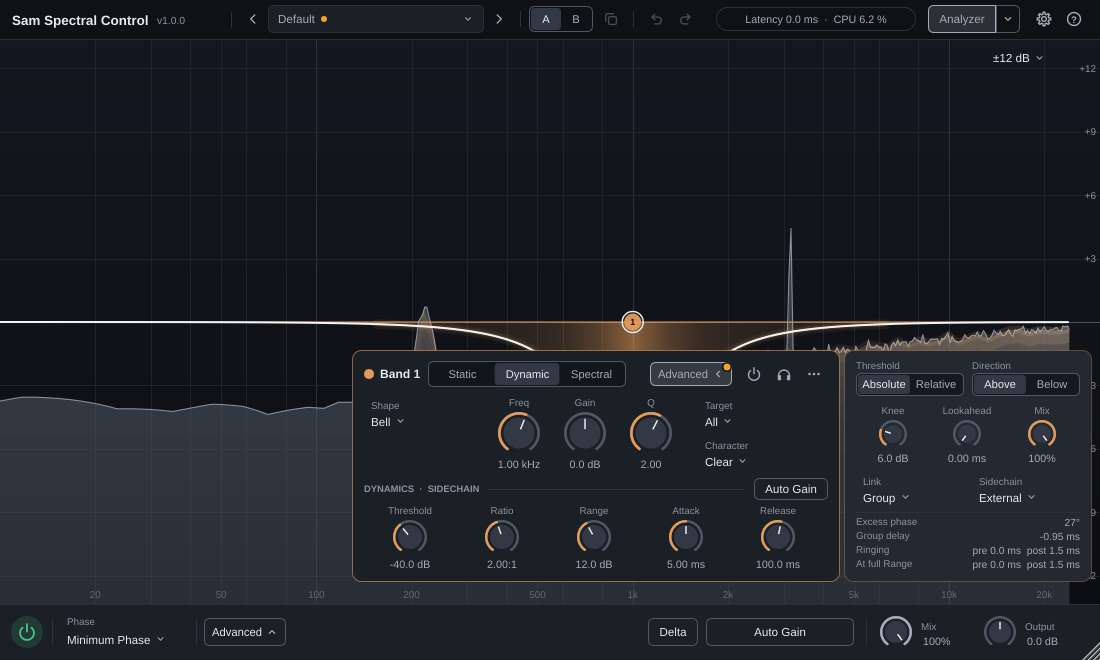
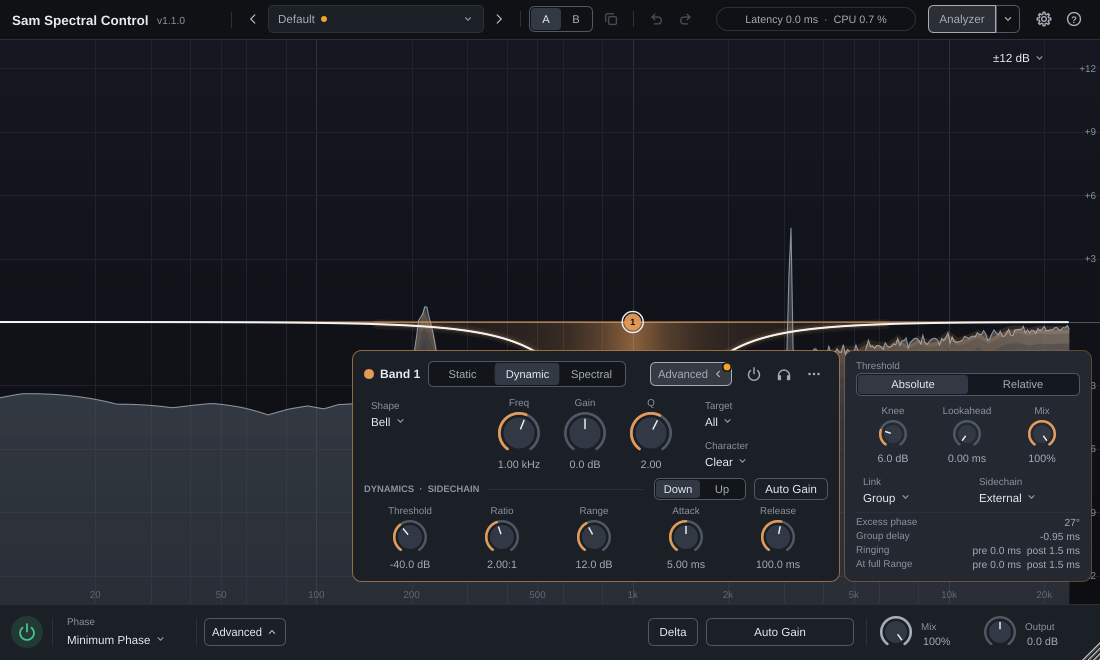
Release 1.1.0
Version 1.1.0: Solo as the band sounds in the mix, on its target only,
with the audible range on the display; a sidechain input for Dynamic and
Spectral bands; upward compression (Direction Down | Up, attack and
release that follow the level). Projects and presets of 1.0.0 load with
the same sound.

CHANGELOG section 1.1.0 (the release notes), README download and
status, manual title and installer names, release and architecture
notes, traceability status; screenshots of the manual rendered from
1.1.0 (the dynamics row now shows Down | Up).

Claude-Session: https://claude.ai/code/session_01L9DFKvKpGWKxu7qzDCDN1t

diff --git a/src/plugin/StateMigration.h b/src/plugin/StateMigration.h
@@ -6,7 +6,7 @@ namespace ssc::plugin
 {
 /**
     Current version of the saved state. Bump when the layout changes and add a migration step.
-    1: version 1.0. 2: the bands' Direction is Down / Up (it was the threshold side, Above / Below),
+    1: version 1.0. 2 (version 1.1): the bands' Direction is Down / Up (it was the threshold side, Above / Below),
     and attack and release answer a rising and a falling level.
 */
 inline constexpr int kStateVersion = 2;

diff --git a/docs/traceability.md b/docs/traceability.md
@@ -2,7 +2,7 @@
 
 Każde wymaganie z [PROMPT.md](../PROMPT.md) z priorytetem, etapem realizacji, źródłem kryteriów akceptacji i statusem. Tabela jest aktualizowana po każdym kamieniu milowym; kolumna „Dowód” zostanie uzupełniona nazwami testów i raportów pomiarowych.
 
-Stan: **wersja 1.0.0 wydana jako wstępna (2026-10-10)** — licencja AGPLv3 (ADR-0002), identyfikatory zamrożone (ADR-0016), instalatory bez podpisów (brak kont Apple Developer i Azure); ręczne testy w hostach (TST-3) jeszcze przed wydaniem zwykłym. Po 1.0.0 (niewydane, CHANGELOG [Unreleased]): Solo z działaniem pasma i na jego celu, słyszalny zakres Solo, wejście Sidechain pasm Dynamic i Spectral (DYN-4), kompresja w górę (Direction Down \| Up, DYN-5, DYN-6; stan w wersji 2). Etapy: M0 research, M1 szkielet, M2 pasma statyczne, M3 dynamika, Spectral i Auto Gain, M4 Natural Phase, Quality, oversampling, Character, M5 surround i panel głośników, M6 Analog Feel N/P/S, M7 wizualizacje, podpowiedzi rezonansów, odczyty, mierniki, M8 presety i A/B, testy obciążeniowe, render offline, instalatory, Delta, nakładka fazy, korektor Minimum Phase, raporty pomiarów, instrukcja i licencje — 88 wymagań, wszystkie z kryteriami akceptacji w notatkach researchu lub ADR. Kolumna „Dowód” wskazuje testy (tagi Catch2 w nawiasach), raporty `docs/measurements` lub elementy kodu.
+Stan: **wersja 1.1.0 wydana jako wstępna (2026-10-27; 1.0.0 — 2026-10-10)** — licencja AGPLv3 (ADR-0002), identyfikatory zamrożone (ADR-0016), instalatory bez podpisów (brak kont Apple Developer i Azure); ręczne testy w hostach (TST-3) jeszcze przed wydaniem zwykłym. W 1.1.0: Solo z działaniem pasma i na jego celu, słyszalny zakres Solo, wejście Sidechain pasm Dynamic i Spectral (DYN-4), kompresja w górę (Direction Down \| Up, DYN-5, DYN-6; stan w wersji 2). Etapy: M0 research, M1 szkielet, M2 pasma statyczne, M3 dynamika, Spectral i Auto Gain, M4 Natural Phase, Quality, oversampling, Character, M5 surround i panel głośników, M6 Analog Feel N/P/S, M7 wizualizacje, podpowiedzi rezonansów, odczyty, mierniki, M8 presety i A/B, testy obciążeniowe, render offline, instalatory, Delta, nakładka fazy, korektor Minimum Phase, raporty pomiarów, instrukcja i licencje — 88 wymagań, wszystkie z kryteriami akceptacji w notatkach researchu lub ADR. Kolumna „Dowód” wskazuje testy (tagi Catch2 w nawiasach), raporty `docs/measurements` lub elementy kodu.
 
 | ID | Wymaganie (skrót) | Priorytet | Etap | Kryteria / projekt | Dowód | Status |
 |---|---|---|---|---|---|---|
@@ -24,7 +24,7 @@ Stan: **wersja 1.0.0 wydana jako wstępna (2026-10-10)** — licencja AGPLv3 (AD
 | CH-4 | Cel pasma w surround — panel wyboru głośników (nazewnictwo Dolby: L, R, C, LFE, Lss, Rss… | P0 | M5 | research/04 §d | `[CH-4]` mapowanie ról, „All + Side” ze stereo w 7.1.4, stan, Undo, panel (szybkie wybory, podsumowanie) | Zrealizowane (M5) |
 | CH-5 | Linkowanie detekcji w pasmach Dynamic/Spectral: niezależnie / w obrębie pary / w obrębie… | P0 | M5 | research/04 §d | `[CH-5]` Linked lanes share one gain (Dynamic); linkowanie w Spectral | Zrealizowane (M3) |
 | CH-6 | Kanały, których pasmo nie obejmuje, zostają nietknięte (weryfikacja null testem) | P0 | M5 | research/04 §d | `[CH-6]` stereo i 7.1.4 z oversamplingiem, Natural Phase i Auto Gain (bit-exact); Analog Feel Max (4×, korektor, Sharp) — kanał bez pasma bit-exact | Zrealizowane (M5; z Analog Feel — M6) |
-| BAND-1 | Do 24 pasm | P0 | M2 | research/05 §d | `[BAND-1]` Band slots…; Band parameters drive the engine…; `[solo]` Solo plays the band region as heard (boost louder, cut quieter), only that part for Mid/Side/Left/Right, follows Dynamic and Spectral, without Auto Gain, one speaker in 5.1; wyświetlacz pokazuje słyszalny zakres Solo (`EqDisplay::paintSoloRange`) | Zrealizowane (M2); CPU 24 pasm — docs/measurements/cpu.md; Solo z działaniem pasma i na jego celu — po 1.0.0 |
+| BAND-1 | Do 24 pasm | P0 | M2 | research/05 §d | `[BAND-1]` Band slots…; Band parameters drive the engine…; `[solo]` Solo plays the band region as heard (boost louder, cut quieter), only that part for Mid/Side/Left/Right, follows Dynamic and Spectral, without Auto Gain, one speaker in 5.1; wyświetlacz pokazuje słyszalny zakres Solo (`EqDisplay::paintSoloRange`) | Zrealizowane (M2); CPU 24 pasm — docs/measurements/cpu.md; Solo z działaniem pasma i na jego celu — 1.1.0 |
 | BAND-2 | Kształty: Bell, Low Shelf, High Shelf, Low Cut, High Cut, Notch, Band Pass, Tilt Shelf | P0 (Flat Tilt, All Pass P1) | M2 | research/05 §d | `[BAND-2]` Matched bell / shelves / notch, band pass, all pass, tilt; `[PH-1]`; docs/measurements/filters.md | Zrealizowane: ±0,1 dB do 20 kHz przy 44,1 kHz w Natural Phase i Minimum Phase High/Max (≤ 0,005 dB); Minimum Phase Eco/Normal — obwiednia błędu dopasowanego IIR (research/05 §c) |
 | BAND-3 | Slope dla Low/High Cut: 6, 12, 18, 24, 30, 36, 48, 72 i 96 dB/oct (płynna regulacja — P1)… | P0 (płynny slope P1) | M2 | research/05 §d | `[BAND-3]` Cut filters: -3 dB at the corner and the nominal slope; `[BAND-3]` Natural Phase brickwall | Zrealizowane (slopy stałe; Brickwall w Natural Phase liniowofazowy od 7·fs/(2D+1), niżej IIR 96 dB/oct — M4); płynny slope P1 |
 | BAND-4 | Tworzenie pasma kliknięciem — kształt zależy od miejsca kliknięcia (jak w Pro-Q 4) | P0 | M2 | research/05 §d | `[BAND-4]` Band shape follows the click zone; hover preview w EqDisplay | Zrealizowane (M2) |
@@ -34,9 +34,9 @@ Stan: **wersja 1.0.0 wydana jako wstępna (2026-10-10)** — licencja AGPLv3 (AD
 | DYN-1 | Static — klasyczny filtr | P0 | M2 | research/06 §d | `ssc::engine::BandProcessor` (tryb Static) | Zrealizowane (M2) |
 | DYN-2 | Dynamic — wzmocnienie całego pasma zależy od poziomu wykrytego w paśmie (klasyczny dynamic EQ) | P0 | M3 | research/06 §d | `[DYN-4]` `[DYN-5]` testy pasma Dynamic; `BandProcessor` tryb Dynamic | Zrealizowane (M3) |
 | DYN-3 | Spectral — w zakresie pasma (ważonym jego kształtem) przetwarzane są tylko częstotliwości… | P0 | M3 | research/06 §d | `[DYN-3]` Spectral band reduces only the tone over the threshold; `SpectralEngine` | Zrealizowane (M3) |
-| DYN-4 | Parametry pasm Dynamic/Spectral: Threshold, Ratio, Direction, Range, Attack, Release, Lookahead, Knee, Q, Mix, Selectivity | P0 (Detector, Sidechain, program-dependent P1) | M3 | research/06 §d | `[DYN-4]` Gain computer…; Ratio 1:1…Range; Mode changes move default thresholds; `[sidechain]` detekcja z sidechaina (Dynamic, Spectral, oversampling, mapowanie na cel, sidechain mono), magistrala Sidechain (układy, processBlock, 32 kanały bez alokacji, stary stan → Internal), UI (podpowiedź braku wejścia, schowek) | Zrealizowane (M3); Sidechain (P1) — po 1.0.0: wejście mono/stereo, Internal \| External per pasmo; Detector Peak, program-dependent — P1 |
-| DYN-5 | Znaczenie kombinacji Ratio × Direction (w obszarze aktywnym nachylenie charakterystyki… | P0 | M3 | research/06 §c, §d | `[DYN-5]` Gain computer follows the static characteristic; Dynamic bell steady state; Down cuts and Up boosts (`thresholdSideFor`); upward compression lifts a quiet band (rdzeń, Spectral, `processBlock`); migracja stanu, presetu i schowka z 1.0 | Zrealizowane (M3); po 1.0.0 Direction = Down \| Up w panelu pasma, kompresja w górę jednym kliknięciem |
-| DYN-6 | Implementuj zgodnie z dobrą praktyką (Giannoulis, Massberg, Reiss 2012): układ… | P0 (program-dependent P1) | M3 | research/06 §c, §d | `[DYN-6]` Attack and release are time constants; Attack answers a rising level in every direction; upward compression takes the lift back at once on a loud onset; expansion below opens with the attack | Zrealizowane (M3); po 1.0.0 attack = reakcja na rosnący poziom także poniżej progu; program-dependent — P1 |
+| DYN-4 | Parametry pasm Dynamic/Spectral: Threshold, Ratio, Direction, Range, Attack, Release, Lookahead, Knee, Q, Mix, Selectivity | P0 (Detector, Sidechain, program-dependent P1) | M3 | research/06 §d | `[DYN-4]` Gain computer…; Ratio 1:1…Range; Mode changes move default thresholds; `[sidechain]` detekcja z sidechaina (Dynamic, Spectral, oversampling, mapowanie na cel, sidechain mono), magistrala Sidechain (układy, processBlock, 32 kanały bez alokacji, stary stan → Internal), UI (podpowiedź braku wejścia, schowek) | Zrealizowane (M3); Sidechain (P1) — 1.1.0: wejście mono/stereo, Internal \| External per pasmo; Detector Peak, program-dependent — P1 |
+| DYN-5 | Znaczenie kombinacji Ratio × Direction (w obszarze aktywnym nachylenie charakterystyki… | P0 | M3 | research/06 §c, §d | `[DYN-5]` Gain computer follows the static characteristic; Dynamic bell steady state; Down cuts and Up boosts (`thresholdSideFor`); upward compression lifts a quiet band (rdzeń, Spectral, `processBlock`); migracja stanu, presetu i schowka z 1.0 | Zrealizowane (M3); w 1.1.0 Direction = Down \| Up w panelu pasma, kompresja w górę jednym kliknięciem |
+| DYN-6 | Implementuj zgodnie z dobrą praktyką (Giannoulis, Massberg, Reiss 2012): układ… | P0 (program-dependent P1) | M3 | research/06 §c, §d | `[DYN-6]` Attack and release are time constants; Attack answers a rising level in every direction; upward compression takes the lift back at once on a loud onset; expansion below opens with the attack | Zrealizowane (M3); w 1.1.0 attack = reakcja na rosnący poziom także poniżej progu; program-dependent — P1 |
 | DYN-7 | Mix pasma działa w domenie wzmocnienia (skaluje zmianę w dB), a nie jako równoległe… | P0 | M3 | research/06 §d | `[DYN-7]` Dynamic band mix scales the gain change | Zrealizowane (M3) |
 | DYN-8 | Lookahead: tor główny jest opóźniony o globalny Max Lookahead (0–20 ms, domyślnie 0 ms)… | P0 | M3 | research/06 §d | `[DYN-8]` Lookahead delays the main path…; Max Lookahead sets the reported latency; band lookahead raises Max Lookahead | Zrealizowane w Dynamic (M3); w Spectral nieużywany — ramka STFT wyprzedza transjent o ~N/2; pokrętło wyłączone i nie podnosi Max Lookahead (M8) |
 | DYN-9 | Silnik spektralny: STFT z WOLA albo odwracalna transformata o stałym Q (oceń w researchu) | P0 (Low Latency P1) | M3 | research/06 §d, ADR-0006 | `[DYN-9]` unity mask −139 dB; research/06 §c | Zrealizowane (M3); Max = gęstszy hop (N/8), bez jawnego okienkowania IR maski (research/06 §c); Low Latency (P1) — poza 1.0 |
@@ -90,7 +90,7 @@ Stan: **wersja 1.0.0 wydana jako wstępna (2026-10-10)** — licencja AGPLv3 (AD
 | TST-2 | CI: pluginval (strictness 10) na obu systemach, Steinberg VST3 validator, auval (dla AU) | P0 | M1 | ADR-0015 | CI i workflow wydania: pluginval strictness 10 (Linux, macOS, Windows), walidator VST3 Steinberga 3.8.1 w trybie rozszerzonym (`tools/ci/vst3-validator.sh`, lokalnie 537/537), auval przy budowie AU | Zrealizowane (M8); auval tylko gdy AU włączony (P1) |
 | TST-3 | Macierz hostów (ręczna checklista w docs/testing.md): Cubase/Nuendo (w tym Atmos 7.1.4 i… | P0 | M8 | docs/testing.md | — | Zaprojektowane; wykonanie ręczne w hostach przed wydaniem (wymaga licencji hostów i systemów macOS/Windows) |
 | TST-4 | Testy obciążeniowe: wszystkie układy kanałów, fs 44,1–384 kHz, bufory 1–8192 próbek i… | P0 | M8 | ADR-0015, docs/testing.md | `[TST-4]` (tests/plugin/TestStress.cpp): 20 układów, 8 częstotliwości, bufory 1–8192 i zmienne (bit-exact), automatyzacja wszystkich parametrów, zmiana układu/fs w sesji, błędy hosta; RTSan | Zrealizowane (M8) |
-| REL-1 | macOS: universal binary, podpis Developer ID, .pkg, notaryzacja, deinstalator | P0 | M8 | ADR-0014, docs/release.md | `packaging/macos/build-pkg.sh` (komponenty VST3/AU/deinstalator, nierelokowalne bundle, codesign z hardened runtime, notarytool + stapler), `uninstall.command`; bez tożsamości podpis ad hoc bundle; sprawdzony w trybie DRY_RUN (`distribution.xml` poprawny) | Zrealizowane (M8); 1.0.0 bez podpisu Developer ID i notaryzacji (brak konta Apple Developer) |
-| REL-2 | Windows: bundle VST3, Inno Setup z deinstalatorem, podpis Authenticode | P0 | M8 | ADR-0014, docs/release.md | `packaging/windows/SamSpectralControl.iss` (VST3 w Common Files, deinstalator, stały AppId), podpis Azure Artifact Signing w `release.yml`; SmartScreen opisany w docs/release.md | Zrealizowane (M8); 1.0.0 bez podpisu Authenticode (brak konta Azure Artifact Signing) |
-| REL-3 | GitHub Actions (macOS + Windows): build, testy, pluginval, pakowanie, podpis i notaryzacja… | P0 | M1 (CI), M8 (podpisy) | ADR-0014, docs/release.md | `.github/workflows/ci.yml`, `.github/workflows/release.yml` (podpisy z GitHub Secrets, bez nich niepodpisane artefakty i wydanie wstępne; wydanie z CHANGELOG, archiwum źródeł z submodułami i SHA-256; bramka ADR-0002/ADR-0016), SemVer + `CHANGELOG.md` | Zrealizowane: wydanie 1.0.0 (wstępne) |
+| REL-1 | macOS: universal binary, podpis Developer ID, .pkg, notaryzacja, deinstalator | P0 | M8 | ADR-0014, docs/release.md | `packaging/macos/build-pkg.sh` (komponenty VST3/AU/deinstalator, nierelokowalne bundle, codesign z hardened runtime, notarytool + stapler), `uninstall.command`; bez tożsamości podpis ad hoc bundle; sprawdzony w trybie DRY_RUN (`distribution.xml` poprawny) | Zrealizowane (M8); 1.0.0 i 1.1.0 bez podpisu Developer ID i notaryzacji (brak konta Apple Developer) |
+| REL-2 | Windows: bundle VST3, Inno Setup z deinstalatorem, podpis Authenticode | P0 | M8 | ADR-0014, docs/release.md | `packaging/windows/SamSpectralControl.iss` (VST3 w Common Files, deinstalator, stały AppId), podpis Azure Artifact Signing w `release.yml`; SmartScreen opisany w docs/release.md | Zrealizowane (M8); 1.0.0 i 1.1.0 bez podpisu Authenticode (brak konta Azure Artifact Signing) |
+| REL-3 | GitHub Actions (macOS + Windows): build, testy, pluginval, pakowanie, podpis i notaryzacja… | P0 | M1 (CI), M8 (podpisy) | ADR-0014, docs/release.md | `.github/workflows/ci.yml`, `.github/workflows/release.yml` (podpisy z GitHub Secrets, bez nich niepodpisane artefakty i wydanie wstępne; wydanie z CHANGELOG, archiwum źródeł z submodułami i SHA-256; bramka ADR-0002/ADR-0016), SemVer + `CHANGELOG.md` | Zrealizowane: wydania 1.0.0 i 1.1.0 (wstępne) |
 | REL-4 | Dokumentacja: README (instrukcja budowania), manual użytkownika (PL; EN — P1), licencje… | P0 (manual EN P1) | M1 (README), M8 | ADR-0014 | README.md (pobieranie, budowanie, struktura, licencja); `LICENSE` (AGPLv3); docs/manual.md (PL); THIRD-PARTY-NOTICES.txt (`tools/third-party-notices.py`, `--check` w CI); CHANGELOG.md; docs/release.md | Zrealizowane (M8); manual EN — P1 |

diff --git a/docs/research/06-tryby-pasma-dynamic-spectral.md b/docs/research/06-tryby-pasma-dynamic-spectral.md
@@ -52,11 +52,11 @@ Niech c = 1/R − 1 (dla R = ∞: c = −1).
 
 Wynik: g ograniczone do [−Range, +Range]. Znak g wynika automatycznie z tabeli w DYN-5 (np. Above + R > 1 → g ≤ 0; Below + R > 1 → g ≥ 0). R = 1 → c = 0 → brak działania.
 
-**Po 1.0.0: parametr Direction to Down / Up.** Above / Below to wewnętrzna strona progu; użytkownik wybiera, czy pasmo tnie (Down), czy podbija (Up), a strona wynika z ratio: Down + R > 1 → Above (kompresja), Up + R > 1 → Below (**kompresja w górę**), Down + R < 1 → Below (ekspansja w dół, bramka), Up + R < 1 → Above (ekspansja w górę) — `dynamics::thresholdSideFor`. Tak opisują to wtyczki wielopasmowe (FabFilter Pro-MB: Compress / Expand i Range w górę lub w dół; TDR Nova), a automatyzacja ratio nie zmienia znaczenia przełącznika. Przełącznik **Down | Up** jest w panelu pasma (nie w Advanced), bo to podstawowy wybór działania pasma.
+**W 1.1.0 parametr Direction to Down / Up.** Above / Below to wewnętrzna strona progu; użytkownik wybiera, czy pasmo tnie (Down), czy podbija (Up), a strona wynika z ratio: Down + R > 1 → Above (kompresja), Up + R > 1 → Below (**kompresja w górę**), Down + R < 1 → Below (ekspansja w dół, bramka), Up + R < 1 → Above (ekspansja w górę) — `dynamics::thresholdSideFor`. Tak opisują to wtyczki wielopasmowe (FabFilter Pro-MB: Compress / Expand i Range w górę lub w dół; TDR Nova), a automatyzacja ratio nie zmienia znaczenia przełącznika. Przełącznik **Down | Up** jest w panelu pasma (nie w Advanced), bo to podstawowy wybór działania pasma.
 
 ### Wygładzanie, Mix, lookahead, linkowanie
 - **Wygładzanie** w dB po komputerze wzmocnienia (decoupled smooth branching): jeśli (g[n] − y[n−1]) · c > 0 → stała attack, w przeciwnym razie release; α = exp(−1 / (τ · fs)). Charakterystyka jest monotoniczna, a rosnący poziom zmienia g zawsze w znaku c, więc attack to reakcja na rosnący poziom, release na malejący — w każdym kierunku: kompresor w dół tnie z czasem attack, kompresor w górę z czasem attack zabiera podbicie przy głośnym wejściu, bramka otwiera się z czasem attack. Attack/Release to stałe czasowe τ (63 %), nie czasy 10–90 %.
-  - *Zmiana po 1.0.0*: w 1.0 regułą było |g[n]| > |y[n−1]| (attack, gdy zmiana narasta). Dla działania powyżej progu to to samo, ale poniżej progu odwraca role: kompresja w górę dostawała podbicie z czasem attack (5 ms), a oddawała je z czasem release (100 ms), więc po każdej cichej chwili początek głośnego dźwięku był podbity o pełny Range (zmierzone w teście: +12 dB zamiast < 0,5 dB 20 ms po wejściu); bramka otwierała się z czasem release. Stan zapisu w wersji 2 przelicza pasma 1.0 tak, żeby brzmiały tak samo (attack ↔ release w pasmach poniżej progu).
+  - *Zmiana w 1.1.0*: w 1.0 regułą było |g[n]| > |y[n−1]| (attack, gdy zmiana narasta). Dla działania powyżej progu to to samo, ale poniżej progu odwraca role: kompresja w górę dostawała podbicie z czasem attack (5 ms), a oddawała je z czasem release (100 ms), więc po każdej cichej chwili początek głośnego dźwięku był podbity o pełny Range (zmierzone w teście: +12 dB zamiast < 0,5 dB 20 ms po wejściu); bramka otwierała się z czasem release. Stan zapisu w wersji 2 przelicza pasma 1.0 tak, żeby brzmiały tak samo (attack ↔ release w pasmach poniżej progu).
 - **Detektor**: RMS (wygładzanie średniokwadratowe o stałej ≈ 2 ms) albo Peak (P1).
 - **Mix pasma**: g_eff = Mix · g — w domenie wzmocnienia, więc bez interferencji fazowej z równoległym sygnałem suchym (DYN-7).
 - **Lookahead**: tor główny opóźniony o globalne `Max Lookahead` D; detekcja pasma z lookahead L jest opóźniona o D − L. Ustawienie L > D podnosi D (zmiana latencji zgłaszana hostowi, z informacją w UI).
@@ -117,7 +117,7 @@ Kod: `ssc/dynamics/Dynamics.h` (komputer wzmocnienia, wygładzanie, detektor), `
 
 **Odstępstwa i dalsze kroki**: lookahead w trybie Spectral nie jest jeszcze kwantowany do hopu (ramka STFT i tak „widzi” transjent ~N/2 wcześniej); okienkowanie odpowiedzi impulsowej maski w Quality Max i tryb Low Latency (P1) — M4; zachowanie program-dependent (P1) — później.
 
-**Sidechain (po 1.0.0, DYN-4 P1)**
+**Sidechain (1.1.0, DYN-4 P1)**
 - Wtyczka ma opcjonalną magistralę wejściową **Sidechain** (0, 1 lub 2 kanały dowolnego typu, domyślnie wyłączoną, żeby hosty nie łączyły jej same); parametr pasma `bXX_sidechain` (Internal / External) wybiera źródło detekcji pasm Dynamic i Spectral. Stan zapisany przez 1.0 nie ma tego parametru i wczytuje się z Internal (brakujące parametry stanu dostają wartości domyślne).
 - **Mapowanie na kanały silnika**: lewy kanał pary słucha lewego kanału sidechaina, prawy — prawego, kanały bez pary (C, LFE, dyskretne) — środka (L + R)/2; sidechain mono zasila wszystkie. Dzięki temu cel pasma działa na sidechainie tak jak na sygnale: Left/Right — kanał, Mid — (L + R)/2, Side — (L − R)/2, a linkowanie (Independent…All) bez zmian. Brak sygnału = cisza (nie własny sygnał pasma), żeby pasmo nie zmieniało zachowania po cichu, gdy host odłączy sidechain.
 - **Dynamic**: sidechain trafia do osobnej historii obok historii wejścia, z tym samym oknem lookahead; przy oversamplingu przechodzi przez drugi zestaw filtrów OS (2 kanały), więc detekcja widzi ten sam czas i to samo pasmo co dla sygnału własnego. Filtr detekcji (obszar pasma, Selectivity), próg Relative i wszystkie stałe czasowe — bez zmian.

diff --git a/docs/release.md b/docs/release.md
@@ -20,9 +20,9 @@ Dla tagu workflow odmawia wydania, dopóki:
 ## Kroki wydania
 
 1. Decyzje (od 1.0.0 podjęte, 2026-10-10): licencja AGPLv3 ([ADR-0002](decisions/0002-licencja-juce.md)) — `LICENSE` (pełny tekst), `packaging/LICENSE.txt` (nota, adres kodu źródłowego i pełny tekst; pokazywany i instalowany przez instalatory), sekcja JUCE w `THIRD-PARTY-NOTICES.txt` odsyła do niego i do kodu źródłowego; identyfikatory zamrożone ([ADR-0016](decisions/0016-identyfikatory-nazwy.md)).
-2. Testy w hostach według [testing.md](testing.md) (TST-3) — przed wydaniem zwykłym; 1.0.0 jest wstępne i ich jeszcze nie ma.
+2. Testy w hostach według [testing.md](testing.md) (TST-3) — przed wydaniem zwykłym; 1.0.0 i 1.1.0 są wstępne i ich jeszcze nie ma.
 3. Wersja w `CMakeLists.txt` i sekcja w `CHANGELOG.md` z datą: `## [X.Y.Z] - RRRR-MM-DD`.
-4. `git tag vX.Y.Z && git push origin vX.Y.Z` albo *Actions → Release → Run workflow* z zaznaczonym **publish** (workflow sam tworzy tag `vX.Y.Z` na tym commicie — tak powstało 1.0.0) → workflow „Release” (bramka, build, testy, pluginval, walidator VST3, instalatory, archiwum źródeł) → opublikowane wydanie GitHub → sprawdzenie instalatorów (instalacja, deinstalacja, `spctl`/właściwości pliku). Wydanie można potem edytować albo cofnąć do szkicu na GitHubie. Ręczne uruchomienie bez **publish** buduje i sprawdza instalatory (artefakty przebiegu) bez wydania.
+4. `git tag vX.Y.Z && git push origin vX.Y.Z` albo *Actions → Release → Run workflow* z zaznaczonym **publish** (workflow sam tworzy tag `vX.Y.Z` na tym commicie — tak powstały 1.0.0 i 1.1.0) → workflow „Release” (bramka, build, testy, pluginval, walidator VST3, instalatory, archiwum źródeł) → opublikowane wydanie GitHub → sprawdzenie instalatorów (instalacja, deinstalacja, `spctl`/właściwości pliku). Wydanie można potem edytować albo cofnąć do szkicu na GitHubie. Ręczne uruchomienie bez **publish** buduje i sprawdza instalatory (artefakty przebiegu) bez wydania.
 
 Archiwum źródeł to kod odpowiadający binarkom w rozumieniu AGPLv3 (§6): wszystkie pliki z `git ls-files --recurse-submodules` (wtyczka, JUCE, pffft, Catch2), w katalogu `SamSpectralControl-X.Y.Z/`; buduje się z niego tak samo jak z repozytorium (`cmake -S SamSpectralControl-X.Y.Z -B build`).
 
@@ -73,7 +73,7 @@ Microsoft Defender SmartScreen ocenia pobierane pliki według reputacji, którą
 
 - `THIRD-PARTY-NOTICES.txt` w katalogu głównym generuje `python3 tools/third-party-notices.py` z plików licencji w `external/` (wersje z `external/JUCE/JUCE.spdx.json` i commitów submodułów). Lista odpowiada temu, co jest w binarce: JUCE, pffft, zlib, HarfBuzz, SheenBidi, LunaSVG, PlutoVG, libpng, biblioteka JPEG IJG, VST 3 SDK, rozszerzenia PreSonus (domena publiczna) i — tylko w komponencie Audio Unit — AudioUnitSDK. Nieużywane kodeki JUCE (FLAC, Ogg Vorbis, Opus, MP3) i WebP są wyłączone w `src/CMakeLists.txt`, więc ich kod nie trafia do wtyczki (sprawdzone `nm` na binarce).
 - Po aktualizacji JUCE lub pffft: `python3 tools/third-party-notices.py` i commit; `--check` (krok CI na Linuksie i `local-check.sh`) wykrywa nieaktualny plik.
-- Instalatory zawsze instalują `LICENSE.txt` i `THIRD-PARTY-NOTICES.txt`; instrukcja [manual.md](manual.md) trafia obok jako `Manual.md` razem z `images/editor.png` i `images/editor-advanced.png` (? → *User Manual* w nagłówku otwiera ten plik). Zrzuty ekranu odświeża się po zmianach interfejsu (build z `-DSSC_BUILD_TOOLS=ON`, na Linuksie pod `xvfb-run -a`):
+- Instalatory zawsze instalują `LICENSE.txt` i `THIRD-PARTY-NOTICES.txt`; instrukcja [manual.md](manual.md) trafia obok jako `Manual.md` razem z obrazami, do których się odwołuje (`images/editor.png`, `editor-advanced.png`, `sidechain.png`, `solo.png`, `upward.png`; lista w `packaging/windows/SamSpectralControl.iss` i `packaging/macos/build-pkg.sh`) (? → *User Manual* w nagłówku otwiera ten plik). Zrzuty ekranu odświeża się po zmianach interfejsu (build z `-DSSC_BUILD_TOOLS=ON`, na Linuksie pod `xvfb-run -a`):
 
 ```bash
 BANDS="b01_used=1 b01_shape=3 b01_freq=60 b01_slope=3 b02_used=1 b02_freq=250 b02_gain=-3 b02_q=1.2 \

diff --git a/docs/manual.md b/docs/manual.md
@@ -1,4 +1,4 @@
-# Sam Spectral Control 1.0 — instrukcja obsługi
+# Sam Spectral Control 1.1 — instrukcja obsługi
 
 Sam Spectral Control to korektor (EQ) z 24 pasmami, z których każde może działać statycznie, dynamicznie albo spektralnie. Ma trzy tryby fazy (Minimum Phase, Natural Phase, Analog Feel), oversampling, Auto Gain, nasycenie pasm (Character), obsługę stereo M/S oraz układów surround i Atmos (m.in. 7.1.4 i 9.1.6, do 32 kanałów), a także analizator widma, odczyty fazy i ringingu oraz mierniki zniekształceń.
 
@@ -35,7 +35,7 @@ Interfejs wtyczki jest po angielsku — nazwy przycisków i parametrów podajemy
 
 ### macOS
 
-Uruchom `SamSpectralControl-1.0.0-macOS.pkg`. W kroku *Customize* można wybrać komponenty:
+Uruchom `SamSpectralControl-1.1.0-macOS.pkg`. W kroku *Customize* można wybrać komponenty:
 
 | Komponent | Miejsce instalacji |
 |---|---|
@@ -47,11 +47,11 @@ Deinstalacja: uruchom `Uninstall Sam Spectral Control.command` z folderu `/Libra
 
 ### Windows
 
-Uruchom `SamSpectralControl-1.0.0-Windows.exe`. Wtyczka trafia do `C:\Program Files\Common Files\VST3\Sam Spectral Control.vst3`, a licencje i (opcjonalnie) instrukcja do `C:\Program Files\Sam Audio\Sam Spectral Control`. Deinstalacja: *Ustawienia → Aplikacje → Zainstalowane aplikacje → Sam Spectral Control*.
+Uruchom `SamSpectralControl-1.1.0-Windows.exe`. Wtyczka trafia do `C:\Program Files\Common Files\VST3\Sam Spectral Control.vst3`, a licencje i (opcjonalnie) instrukcja do `C:\Program Files\Sam Audio\Sam Spectral Control`. Deinstalacja: *Ustawienia → Aplikacje → Zainstalowane aplikacje → Sam Spectral Control*.
 
 ### Ostrzeżenia systemu przy instalatorach bez podpisu
 
-Wydanie 1.0.0 nie jest podpisane cyfrowo (wydanie wstępne), więc systemy ostrzegają przed pierwszym uruchomieniem instalatora. Sumę SHA-256 pobranego pliku można porównać z `SHA256SUMS.txt` ze strony wydania (macOS: `shasum -a 256 <plik>`, Windows: `certutil -hashfile <plik> SHA256`).
+Wydanie 1.1.0 nie jest podpisane cyfrowo (wydanie wstępne), więc systemy ostrzegają przed pierwszym uruchomieniem instalatora. Sumę SHA-256 pobranego pliku można porównać z `SHA256SUMS.txt` ze strony wydania (macOS: `shasum -a 256 <plik>`, Windows: `certutil -hashfile <plik> SHA256`).
 
 - **macOS**: po dwukliku pojawia się komunikat, że Apple nie może sprawdzić pliku. Zamknij go, otwórz *Ustawienia systemowe → Prywatność i ochrona*, w sekcji *Ochrona* kliknij *Otwórz mimo to* przy nazwie instalatora i potwierdź hasłem. W macOS 15 i nowszych otwieranie przez Control-klik już nie omija tej blokady.
 - **Windows**: SmartScreen pokazuje okno „System Windows ochronił ten komputer” — wybierz *Więcej informacji → Uruchom mimo to*. Także podpisane instalatory nowego wydawcy mogą przez pierwsze tygodnie wywoływać to ostrzeżenie, zanim zbudują reputację.
@@ -492,7 +492,7 @@ Najwięcej kosztują: liczba kanałów, oversampling, pasma Dynamic i Spectral o
 
 ## 18. Znane ograniczenia
 
-- Formaty: VST3; Audio Unit tylko w kompilacjach, które go zawierają (macOS); AAX i CLAP poza zakresem wersji 1.0.
+- Formaty: VST3; Audio Unit tylko w kompilacjach, które go zawierają (macOS); AAX i CLAP poza zakresem obecnej wersji.
 - Jedno wejście sidechain (mono lub stereo), wspólne dla wszystkich pasm; analizator nie pokazuje widma sidechaina.
 - Pasma Spectral mają dużą latencję (ramka STFT); tryb niskiej latencji dla Spectral jest planowany.
 - Podpowiedzi rezonansów są rzadkie poniżej ok. 400 Hz.

diff --git a/docs/research/05-pasma-ksztalty-edycja.md b/docs/research/05-pasma-ksztalty-edycja.md
@@ -66,7 +66,7 @@ Implementacja: `ssc/filters/MatchedDesign` i `ssc/filters/BandDesign` (rdzeń DS
 - Węzeł pasma: dla kształtów z gain na wysokości gain, dla Low/High Cut na poziomie odpowiedzi w fc (rezonans widać na wysokości węzła), dla Notch, Band Pass i All Pass na linii 0 dB; pionowe przeciąganie zmienia wtedy Q.
 - Każda edycja to transakcja (`ui/BandModel`): pierwszy ruch parametru otwiera gest hosta, koniec gestu myszy lub akcji menu zamyka wszystkie gesty i zapisuje jeden krok Undo (migawka znormalizowanych wartości 24 × 23 parametrów). Historia Undo należy do procesora, więc przetrwa zamknięcie edytora.
 - Solo (odsłuch) nie jest parametrem: to stan monitoringu edytora, kasowany przy jego zamknięciu. Filtr odsłuchu: Band Pass o fc i Q pasma (Q ograniczone do 0,5–20), dla półek i cięć Low/High Cut po stronie, na którą działa pasmo; przejście crossfadem 10 ms.
-- **Solo po 1.0.0** (zgłoszenie użytkownika: odsłuch był głośniejszy niż pasmo w miksie, a pasmo Mid grało cały sygnał). W 1.0 Solo filtrowało *wejście* filtrem obszaru o stałym wzmocnieniu 0 dB, więc nie słychać było ani wzmocnienia pasma, ani jego działania Dynamic/Spectral, a cel pasma był pomijany. Teraz, jak w Pro-Q 4, filtr obszaru działa na *wyjściu* (po Mix, Delta i Output, bez korekcji Auto Gain — AG-5) i tylko na lane celu pasma (`makeLanes`): Mid/Side grają samą składową (L = R = M albo L = S, R = −S), Left/Right tylko ten kanał każdej pary, w surround tylko głośniki pasma; reszta milknie. Podbicie +6 dB słychać więc o 6 dB głośniej niż przy 0 dB, cięcie −12 dB o 12 dB ciszej, a pasmo Dynamic/Spectral zmienia poziom odsłuchu w rytm swojej redukcji (testy `[solo]`). Wyświetlacz przyciemnia częstotliwości proporcjonalnie do tłumienia filtra obszaru, zaznacza granice −3 dB i podaje pasmo, cel i zakres (`EqDisplay::paintSoloRange`).
+- **Solo w 1.1.0** (zgłoszenie użytkownika: odsłuch był głośniejszy niż pasmo w miksie, a pasmo Mid grało cały sygnał). W 1.0 Solo filtrowało *wejście* filtrem obszaru o stałym wzmocnieniu 0 dB, więc nie słychać było ani wzmocnienia pasma, ani jego działania Dynamic/Spectral, a cel pasma był pomijany. Teraz, jak w Pro-Q 4, filtr obszaru działa na *wyjściu* (po Mix, Delta i Output, bez korekcji Auto Gain — AG-5) i tylko na lane celu pasma (`makeLanes`): Mid/Side grają samą składową (L = R = M albo L = S, R = −S), Left/Right tylko ten kanał każdej pary, w surround tylko głośniki pasma; reszta milknie. Podbicie +6 dB słychać więc o 6 dB głośniej niż przy 0 dB, cięcie −12 dB o 12 dB ciszej, a pasmo Dynamic/Spectral zmienia poziom odsłuchu w rytm swojej redukcji (testy `[solo]`). Wyświetlacz przyciemnia częstotliwości proporcjonalnie do tłumienia filtra obszaru, zaznacza granice −3 dB i podaje pasmo, cel i zakres (`EqDisplay::paintSoloRange`).
 - Panel pasma jest zadokowany pod wyświetlaczem i przenosi się na górę, gdy zasłaniałby węzeł edytowanego pasma.
 
 ### Tworzenie pasm kliknięciem (BAND-4)

diff --git a/docs/research/15-ux-ui.md b/docs/research/15-ux-ui.md
@@ -157,7 +157,7 @@ Zakres skali EQ jest w prawym górnym rogu wykresu, obok skali dB (F10). Progi o
 - **Wymiary**: szerokość 488 px (600 px w surround, z Speakers), wysokość 132 px (Static) albo 232 px (Dynamic, Spectral). Przy zmianie trybu panel zmienia tylko wysokość, nigdy szerokości (w 1.0 skakał z 482 na 684 px).
 - **Gałki**: EQ ok. 46 px, dynamika ok. 38 px, Advanced ok. 32 px; łuk w kolorze pasma (podobieństwo z węzłem, A8), Gain od 0 dB w obie strony; podpis nad gałką, wartość pod nią (kliknięcie — wpisanie wartości, dwuklik — wartość domyślna).
 - **Tryb**: segmenty Dynamic i Spectral są nieaktywne dla kształtów bez wzmocnienia (podpowiedź mówi dlaczego). Przełączenie na Spectral z nieruszonym progiem Dynamic ustawia Relative +6 dB i odwrotnie (DYN-4, bez zmian).
-- **Liczba kontrolek parametrów**: Static 8 (w 1.0: 11–12 kontrolek, w tym 3 listy bez podpisu), Dynamic i Spectral 14 (w 1.0: 23–24), po 1.0.0 — 15, bo kierunek **Down | Up** (kompresja w górę) przeszedł z Advanced do panelu pasma: to wybór tego, co pasmo robi, a nie szczegół detektora. Test `TestInterface` sprawdza, które parametry ma każdy tryb.
+- **Liczba kontrolek parametrów**: Static 8 (w 1.0: 11–12 kontrolek, w tym 3 listy bez podpisu), Dynamic i Spectral 14 (w 1.0: 23–24), w 1.1.0 — 15, bo kierunek **Down | Up** (kompresja w górę) przeszedł z Advanced do panelu pasma: to wybór tego, co pasmo robi, a nie szczegół detektora. Test `TestInterface` sprawdza, które parametry ma każdy tryb.
 
 ### d6. Wysuwany panel Advanced pasma
 
@@ -287,7 +287,7 @@ Krzywe: *wejście* `cubic-bezier(0, 0, 0.2, 1)`, *wyjście* `cubic-bezier(0.4, 0
 | # | Kryterium | Sprawdzenie | Wynik |
 |---|---|---|---|
 | E1 | Grupy w paskach oddzielone ≥ 16 px i linią; sekcje paneli podpisane | zrzuty `ssc_screenshot` | spełnione (`editor.png`, `editor-advanced.png`) |
-| E2 | Panel pasma pokazuje tylko parametry swojego trybu: Static ≤ 11, Dynamic i Spectral ≤ 14 kontrolek parametrów (po 1.0.0 ≤ 15: Down \| Up); żadnej listy bez podpisu | test `TestInterface` | spełnione: 8 i 15 |
+| E2 | Panel pasma pokazuje tylko parametry swojego trybu: Static ≤ 11, Dynamic i Spectral ≤ 14 kontrolek parametrów (w 1.1.0 ≤ 15: Down \| Up); żadnej listy bez podpisu | test `TestInterface` | spełnione: 8 i 15 |
 | E3 | Tekst ≥ 4,5:1 do swojej warstwy; wskaźniki stanu ≥ 3:1; tor gałki ≥ 2:1 | test tokenów (`contrastRatio`) | spełnione (§d10) |
 | E4 | Cele kliknięcia ≥ 24 × 24 px | przegląd, test segmentów | przyciski 28 × 28, segmenty i chipy wysokie na 26–28 px |
 | E5 | Przy 860 × 480 żadna etykieta nie jest ucięta | zrzut `editor-860x480.png` | spełnione (krótkie nazwy trybów fazy, zwarty chip statusu) |

diff --git a/README.md b/README.md
@@ -18,13 +18,13 @@ Korektor parametryczny z pasmami statycznymi, dynamicznymi i spektralno-dynamicz
 | M7 | Analizator (ustawienia, peak hold), poświata aktywności, podpowiedzi rezonansów, odczyty fazy i ringingu pasm, mierniki THD+N i aliasingu z podpowiedzią oversamplingu | ✅ |
 | M8 | Presety fabryczne i użytkownika, A/B, Undo/Redo w nagłówku, testy obciążeniowe, oversampling renderu offline, Delta, nakładka fazy całego EQ, korektor Minimum Phase High/Max, raporty pomiarów, instalatory (pkg / Inno Setup) i workflow wydania z podpisami, instrukcja (PL), licencje | ✅ |
 | UX | Przebudowa interfejsu ([research §15](docs/research/15-ux-ui.md)): trzy poziomy informacji, panel pasma pod węzłem z pokrętłami zależnymi od trybu, wysuwane panele Advanced (pasma i globalny), presety ‹ › ze znacznikiem zmian, animacje Full / Reduced / Off | ✅ |
-| po 1.0.0 | Solo z działaniem pasma i tylko na jego celu, słyszalny zakres Solo na wykresie; wejście Sidechain dla pasm Dynamic i Spectral; kompresja w górę (Down \| Up) ([CHANGELOG](CHANGELOG.md)) | ✅ (jeszcze niewydane) |
+| 1.1.0 | Solo z działaniem pasma i tylko na jego celu, słyszalny zakres Solo na wykresie; wejście Sidechain dla pasm Dynamic i Spectral; kompresja w górę (Down \| Up) ([CHANGELOG](CHANGELOG.md)) | ✅ |
 
 Szczegółowy stan każdego wymagania: [docs/traceability.md](docs/traceability.md).
 
 ## Pobieranie
 
-Instalatory wersji **1.0.0** dla macOS (`.pkg`, Apple silicon i Intel) i Windows (`.exe`, x64) są na stronie [Releases](https://github.com/ffsfdfhbdg01/Sam-spectral-control/releases), razem z archiwum pełnego kodu źródłowego i sumami SHA-256. Pierwsze wydanie nie jest podpisane cyfrowo (wydanie wstępne): macOS i Windows ostrzegają przed jego uruchomieniem, a notatki wydania opisują, jak przejść przez te ostrzeżenia. Na Linuksie wtyczkę buduje się ze źródeł (niżej). Jak powstaje wydanie: [docs/release.md](docs/release.md).
+Instalatory wersji **1.1.0** dla macOS (`.pkg`, Apple silicon i Intel) i Windows (`.exe`, x64) są na stronie [Releases](https://github.com/ffsfdfhbdg01/Sam-spectral-control/releases), razem z archiwum pełnego kodu źródłowego i sumami SHA-256. Wydania nie są jeszcze podpisane cyfrowo (wydania wstępne): macOS i Windows ostrzegają przed uruchomieniem instalatora, a notatki wydania opisują, jak przejść przez te ostrzeżenia. Na Linuksie wtyczkę buduje się ze źródeł (niżej). Jak powstaje wydanie: [docs/release.md](docs/release.md).
 
 ## Obsługa (skrót)
 

diff --git a/CHANGELOG.md b/CHANGELOG.md
@@ -4,6 +4,10 @@ Wszystkie istotne zmiany Sam Spectral Control. Format: [Keep a Changelog](https:
 
 ## [Unreleased]
 
+## [1.1.0] - 2026-10-27
+
+Odsłuch Solo taki, jak pasmo brzmi w miksie, wejście sidechain dla pasm Dynamic i Spectral oraz kompresja w górę. Projekty i presety z 1.0.0 wczytują się i brzmią tak samo. Instalatory nadal nie są podpisane cyfrowo — to wydanie wstępne.
+
 ### Dodane
 - **Kompresja w górę** (upward compression) w pasmach Dynamic i Spectral: przełącznik **Down | Up** w nagłówku rzędu dynamiki panelu pasma (obok Auto Gain) i podmenu *Direction* w menu węzła. Up z Ratio powyżej 1:1 podnosi obszar pasma, gdy jest cichszy niż próg (najwyżej o Range), a głośne fragmenty zostawia; Up z Ratio poniżej 1:1 to ekspansja w górę, Down — kompresja albo ekspansja w dół (jak bramka). Nagłówek rzędu dynamiki nazywa działanie (**UPWARD COMPRESSION**, **EXPANSION**, **UPWARD EXPANSION**).
 - **Sidechain** pasm Dynamic i Spectral (DYN-4): opcjonalne wejście **Sidechain** wtyczki (mono lub stereo, domyślnie wyłączone) i wybór **Sidechain: Internal | External** w panelu Advanced pasma oraz *External Sidechain* w menu węzła. Pasmo z External mierzy poziom w sidechainie (na swoim celu: Left, Right, Mid, Side, All; sidechain mono steruje wszystkimi kanałami), a przetwarza własny sygnał; pasma Spectral biorą poziomy z widma sidechaina. Sidechain jest wyrównany w czasie z torem głównym (Lookahead, oversampling, Natural Phase) i nie dodaje latencji. Panel pasma pokazuje **· SIDECHAIN**, a bez sygnału na wejściu — bursztynowe **SIDECHAIN: NO INPUT**.

diff --git a/docs/architecture.md b/docs/architecture.md
@@ -1,6 +1,6 @@
 # Architektura — Sam Spectral Control
 
-Status: **zrealizowana w M1–M8 (wersja 1.0.0)**. Dokument realizuje ARC-1…ARC-6 z [PROMPT.md](../PROMPT.md). Uzasadnienia decyzji są w [ADR](decisions/), a podstawy merytoryczne w [research](research/); tam też, w sekcjach „Realizacja w M…”, są odstępstwa od propozycji z M0 i wyniki pomiarów.
+Status: **zrealizowana w M1–M8 (wersja 1.0.0), rozszerzona w 1.1.0** (Solo na celu pasma, sidechain, kompresja w górę). Dokument realizuje ARC-1…ARC-6 z [PROMPT.md](../PROMPT.md). Uzasadnienia decyzji są w [ADR](decisions/), a podstawy merytoryczne w [research](research/); tam też, w sekcjach „Realizacja w M…”, są odstępstwa od propozycji z M0 i wyniki pomiarów.
 
 ## 1. Zasady nadrzędne
 
